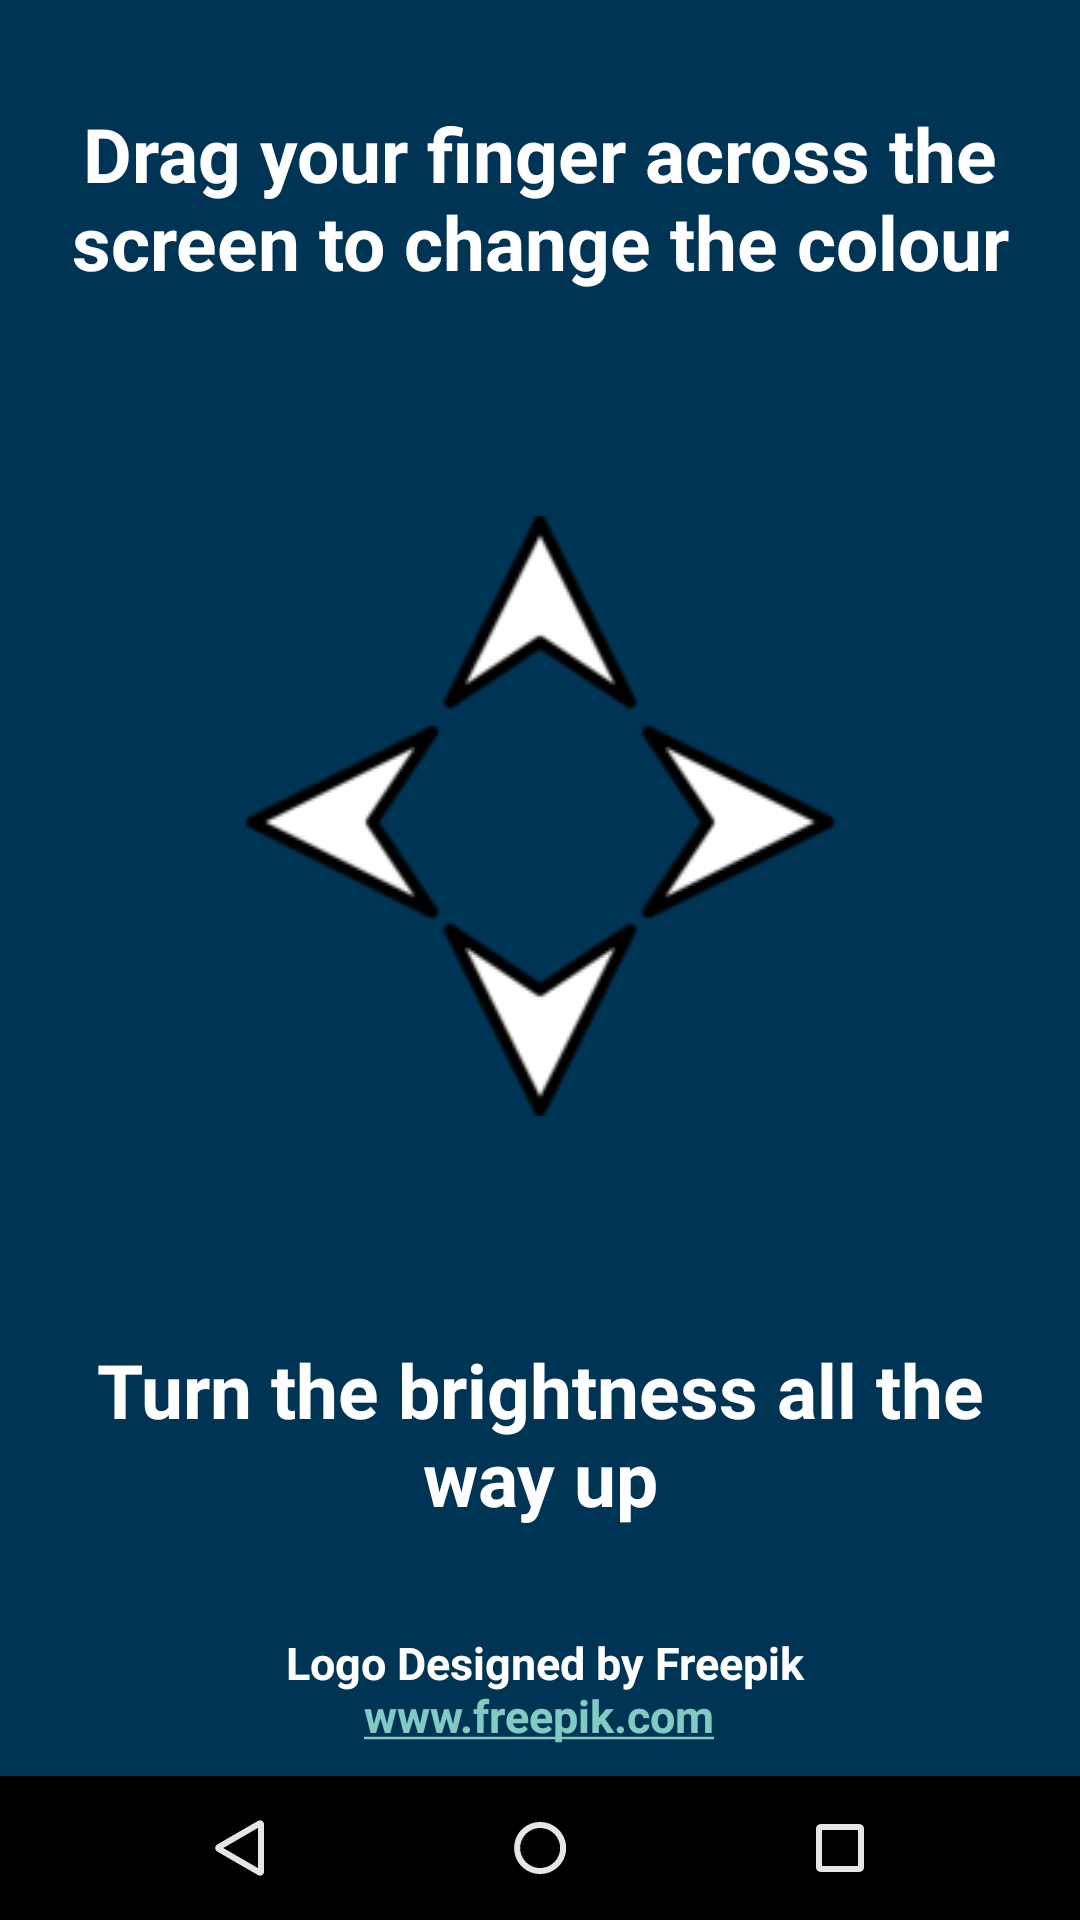
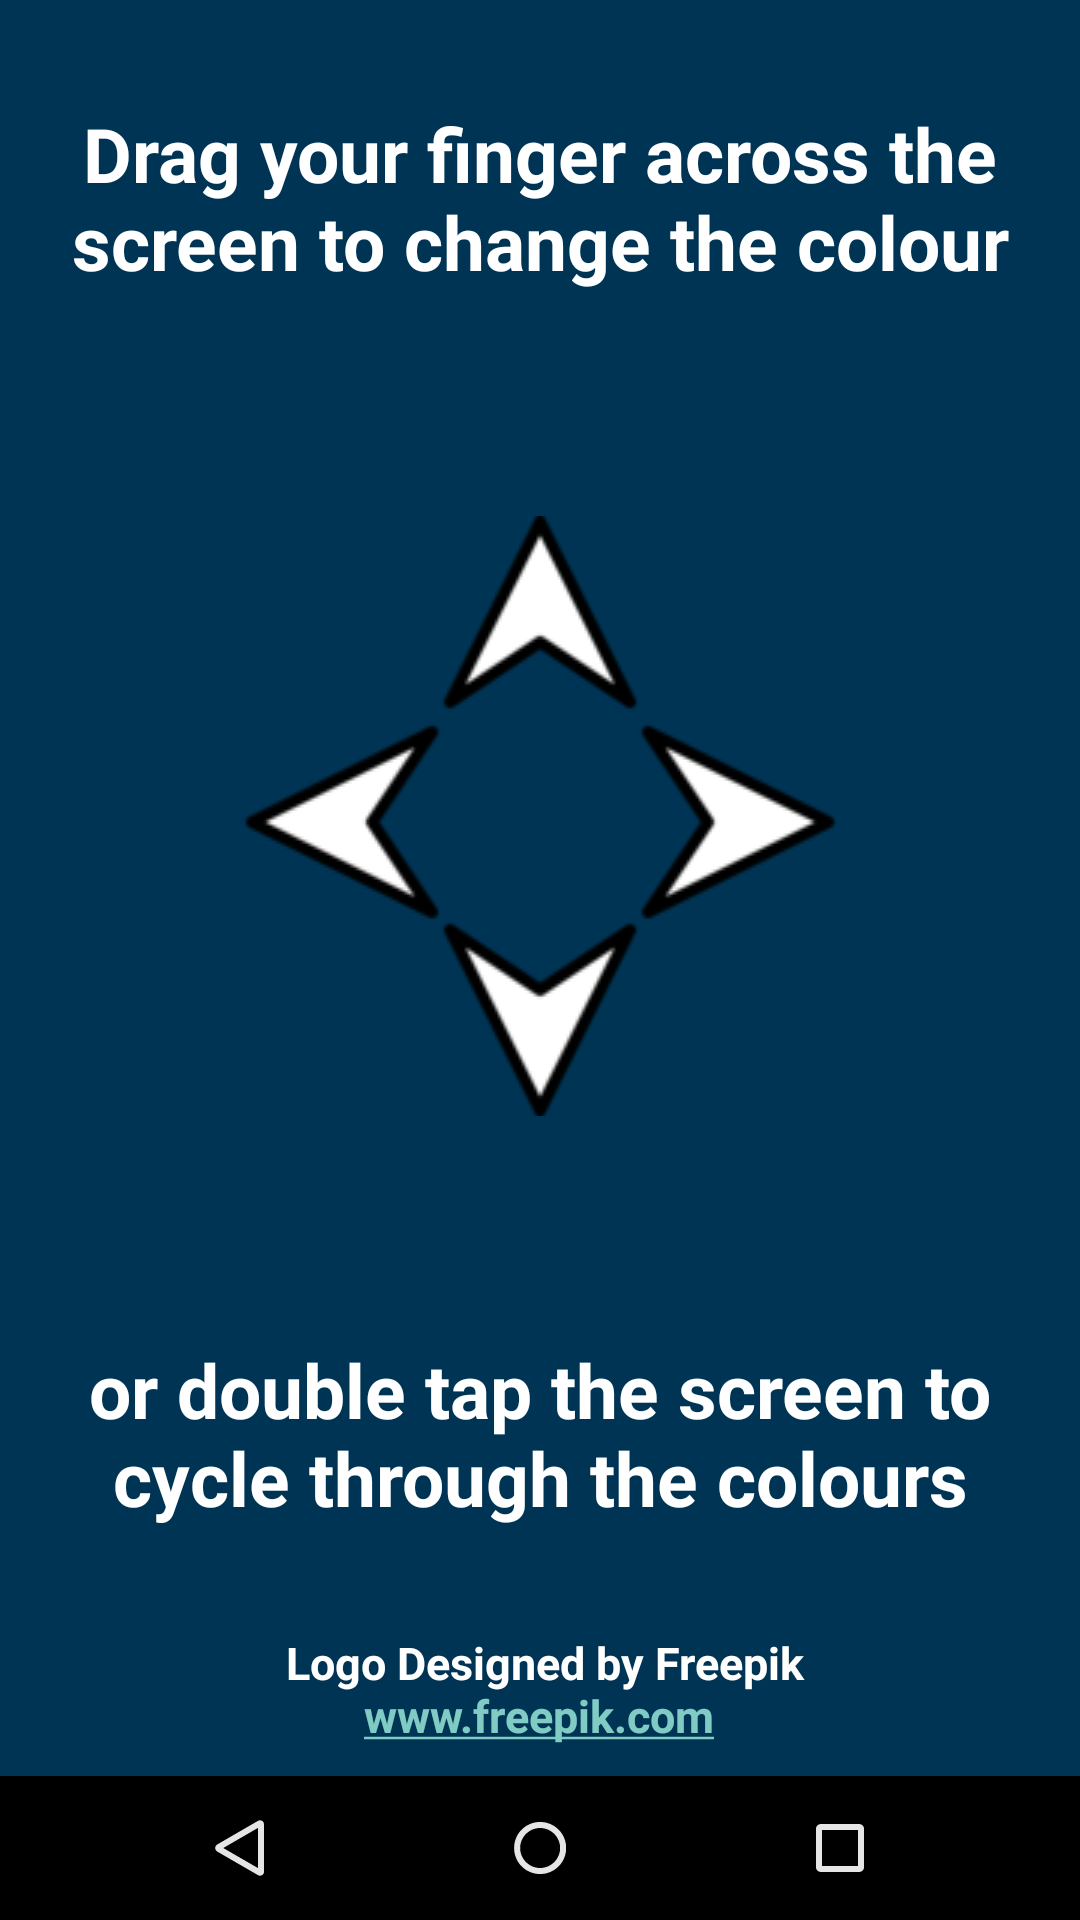
Removed saving and loading of current colour as it was not required

Changed region(s): [[0.0611, 0.6875, 0.9167, 0.8125]]

diff --git a/app/src/main/java/com/alequinonboard/simplemoodlight/MainActivity.java b/app/src/main/java/com/alequinonboard/simplemoodlight/MainActivity.java
@@ -8,7 +8,6 @@ import android.graphics.Color;
 import android.net.Uri;
 import android.os.Bundle;
 import android.os.Handler;
-import android.util.Log;
 import android.view.MotionEvent;
 import android.view.View;
 import android.widget.LinearLayout;
@@ -29,20 +28,14 @@ public class MainActivity extends Activity implements View.OnTouchListener{
 
     private final Handler autoColourHandler = new Handler();
 
-    private SharedPreferences lastUsedColour;
     private static final String RED_SAVED = "RED_SAVED";
     private static final String GREEN_SAVED = "GREEN_SAVED";
     private static final String BLUE_SAVED = "BLUE_SAVED";
-
-    private RGBColour currentColour;
 
     @Override
     protected void onCreate(Bundle savedInstanceState) {
         super.onCreate(savedInstanceState);
         setContentView(R.layout.activity_main);
-
-        lastUsedColour = this.getSharedPreferences("lastUsedColour", Context.MODE_PRIVATE);
-
         colourManager = ColourManager.getInstance();
 
         background = (RelativeLayout) findViewById(R.id.main_background);
@@ -57,13 +50,12 @@ public class MainActivity extends Activity implements View.OnTouchListener{
     @Override
     protected void onPause() {
         super.onPause();
-        saveColourAsLastUsed(currentColour);
+        stopAutoColourMode();
     }
 
     @Override
     protected void onResume() {
         super.onResume();
-        setBackgroundColour(loadLastUsedColour());
     }
 
     @Override
@@ -80,9 +72,9 @@ public class MainActivity extends Activity implements View.OnTouchListener{
             }
 
             if(motionEvent.getAction() == MotionEvent.ACTION_DOWN){
-                autoColourHandler.removeCallbacksAndMessages(null);
+                stopAutoColourMode();
                 if(doubleTapCheck.isDoubleTap()) {
-                    activateAutoColourMode();
+                    startAutoColourMode();
                 }
             }
 
@@ -91,7 +83,7 @@ public class MainActivity extends Activity implements View.OnTouchListener{
         return true;
     }
 
-    private void activateAutoColourMode(){
+    private void startAutoColourMode(){
         autoColourHandler.post(new Runnable() {
 
             private int xIndex = colourManager.numberOfColours / 2;
@@ -114,6 +106,10 @@ public class MainActivity extends Activity implements View.OnTouchListener{
         });
     }
 
+    private void stopAutoColourMode(){
+        autoColourHandler.removeCallbacksAndMessages(null);
+    }
+
     private void setBackgroundFromPosition(float x, float y){
 
         int xPosition = getXPositionAsPercentage(x);
@@ -134,7 +130,6 @@ public class MainActivity extends Activity implements View.OnTouchListener{
     }
 
     private void setBackgroundColour(RGBColour colour){
-        currentColour = colour;
         background.setBackgroundColor(Color.rgb(colour.getRed(), colour.getGreen(), colour.getBlue()));
     }
 
@@ -153,8 +148,11 @@ public class MainActivity extends Activity implements View.OnTouchListener{
      * is on.
      */
     private int checkValueInRange(int value){
-        if(value > colourManager.numberOfColours-1){
-            return colourManager.numberOfColours-1;
+
+        final int upperBound = colourManager.numberOfColours-1;
+
+        if(value > upperBound){
+            return upperBound;
         }else
         if(value < 0){
             return 0;
@@ -162,22 +160,4 @@ public class MainActivity extends Activity implements View.OnTouchListener{
             return value;
         }
     }
-
-    private RGBColour loadLastUsedColour(){
-        return new RGBColour(
-                lastUsedColour.getInt(RED_SAVED, 255),
-                lastUsedColour.getInt(GREEN_SAVED, 255),
-                lastUsedColour.getInt(BLUE_SAVED, 255)
-        );
-    }
-
-    private void saveColourAsLastUsed(RGBColour colour){
-
-        SharedPreferences.Editor edit = lastUsedColour.edit();
-        edit.putInt(RED_SAVED, colour.getRed());
-        edit.putInt(GREEN_SAVED, colour.getGreen());
-        edit.putInt(BLUE_SAVED, colour.getBlue());
-        edit.apply();
-    }
-
 }
